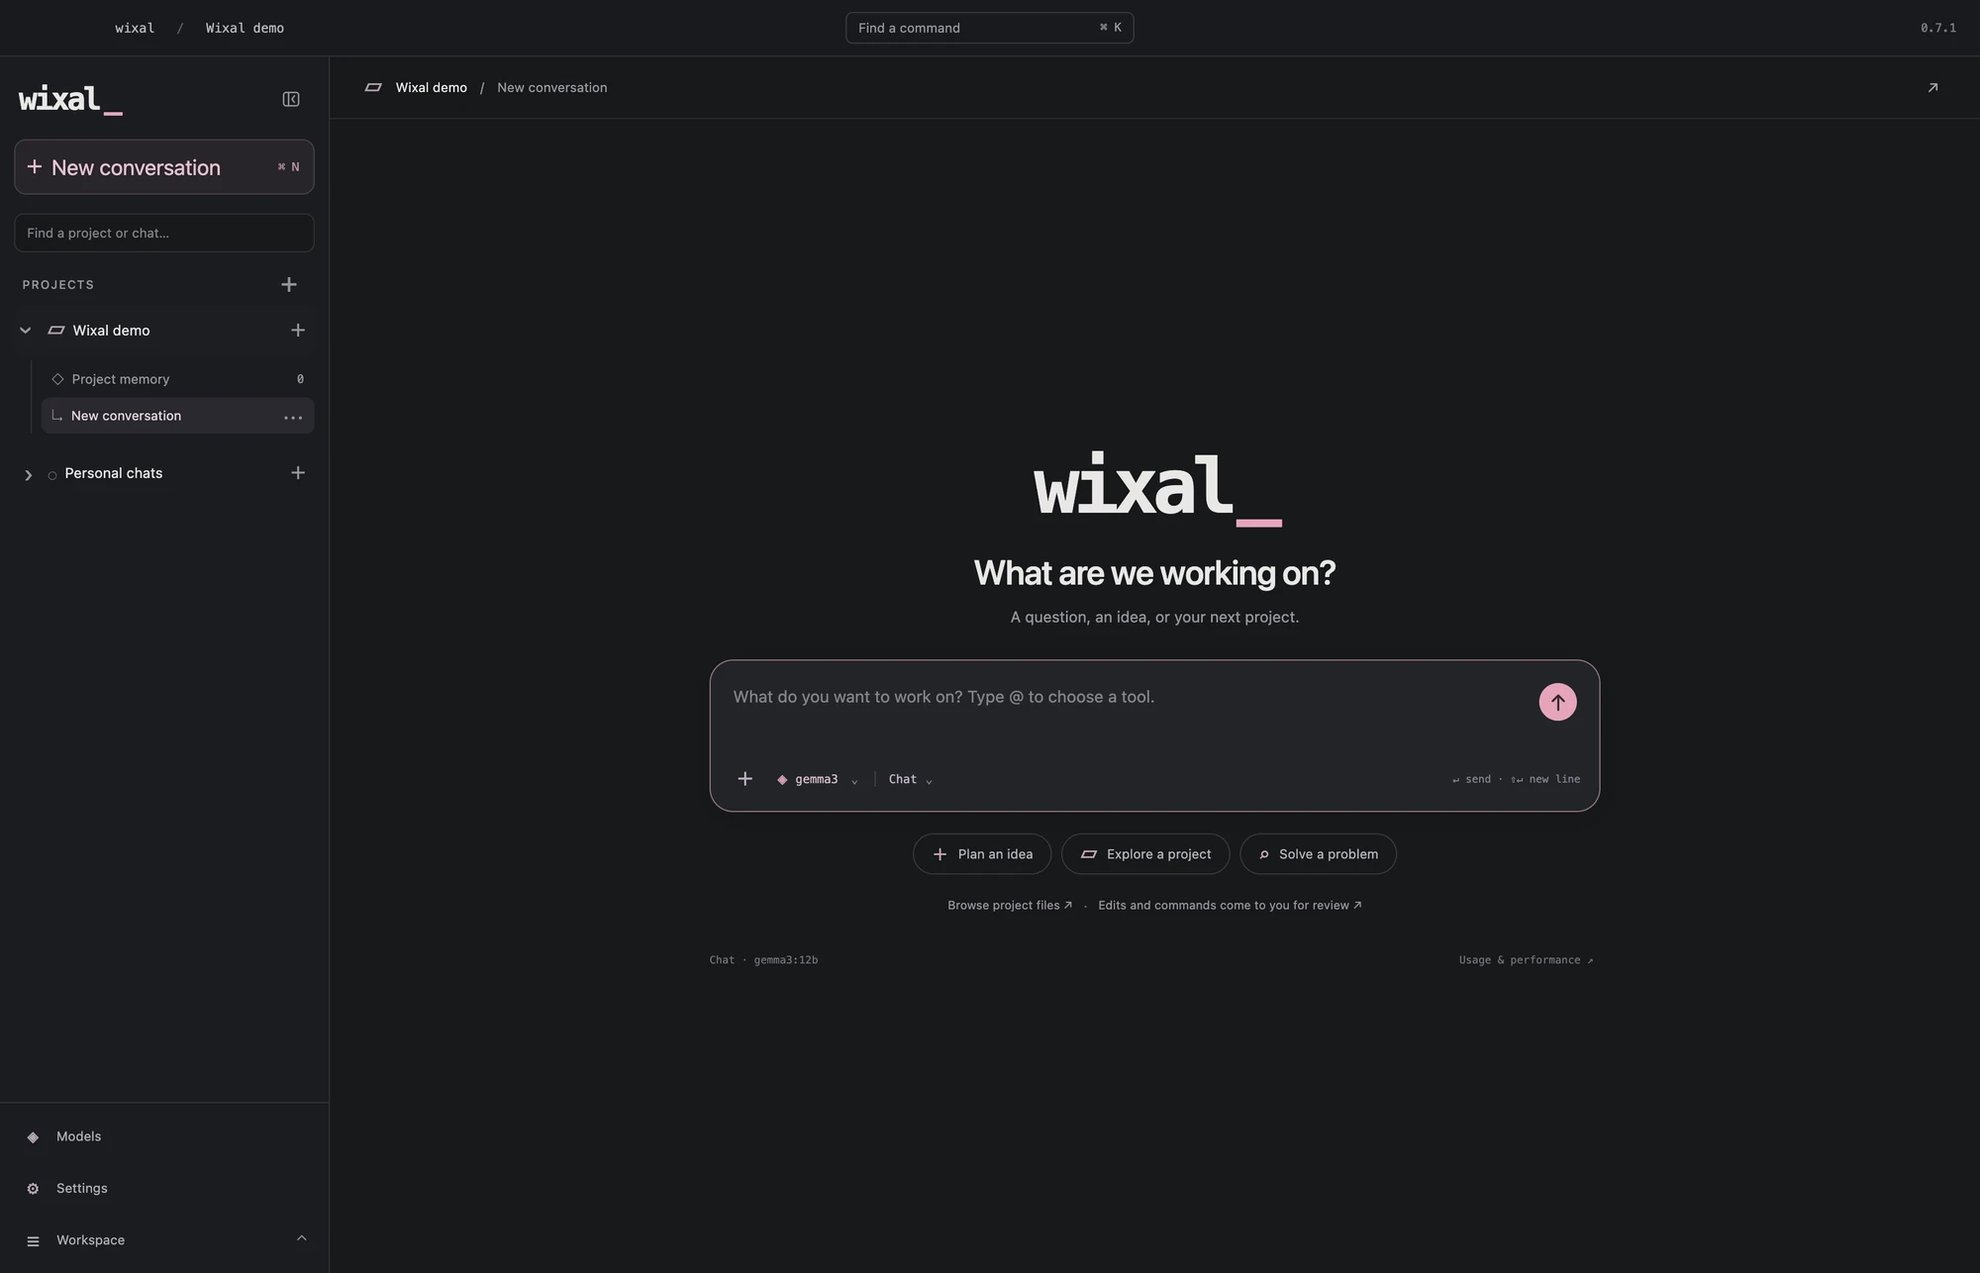
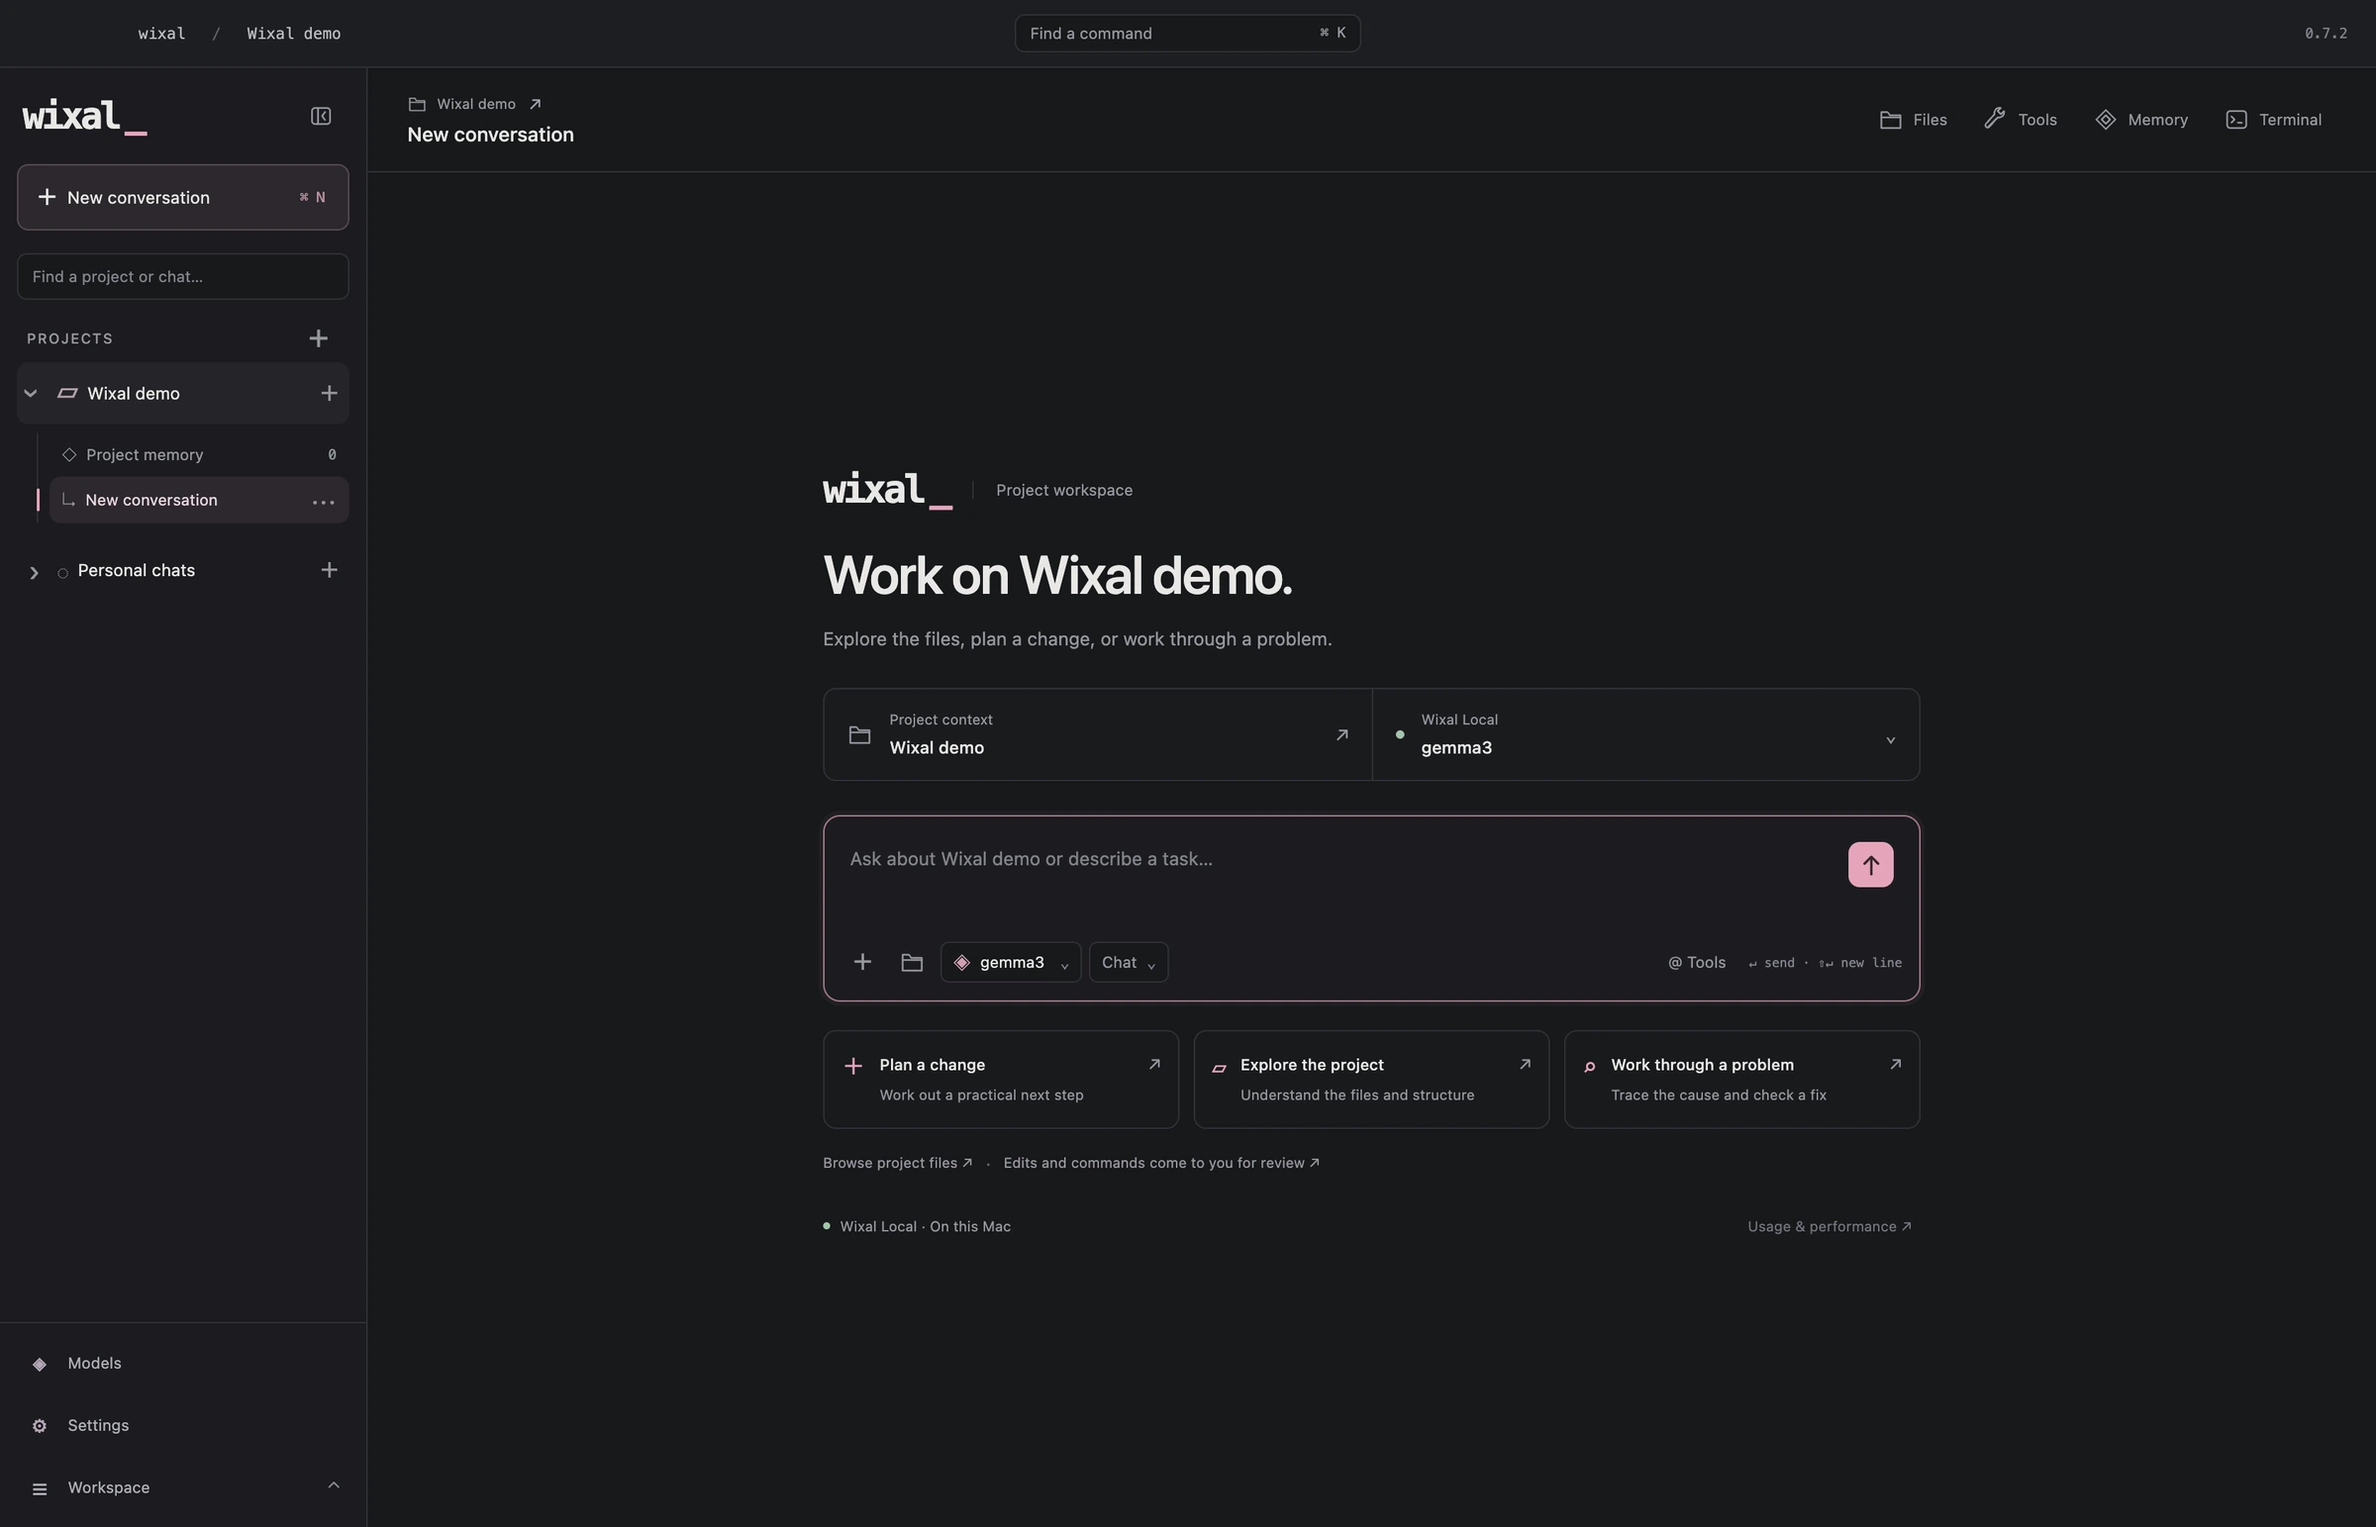
Refresh product screenshots and concise copy for Wixal 0.7.2

diff --git a/website/README.md b/website/README.md
@@ -38,11 +38,11 @@ GitHub Pages must use GitHub Actions as its build source. The published URL is h
 
 ## Content and assets
 
-`scripts/build.mjs` contains the shared templates and page content. `src/styles.css` defines the responsive design system; `src/site.js` handles navigation, screenshot tabs, and appearance. Wixal 0.7.1 workspace, model manager, tool kit and performance captures are saved as WebP. Files, memory, terminal, connections, explicit tool selection, command tools, web tool cards and MCP setup previews are captured from 0.7.1, and the existing folded W mark is used in the header and favicon.
+`scripts/build.mjs` contains the shared templates and page content. `src/styles.css` defines the responsive design system; `src/site.js` handles navigation, screenshot tabs, and appearance. Wixal 0.7.2 workspace, model manager, tool kit and performance captures are saved as WebP. Files, memory, terminal, connections, explicit tool selection, command tools, web tool cards and MCP setup previews are captured from 0.7.2, and the existing folded W mark is used in the header and favicon.
 
 The Cursor homepage and product page informed the neutral palette, quiet navigation, typography, whitespace, product previews, and download buttons. Wixal uses its own content and assets. No Cursor fonts, logo, screenshots, customer endorsements, or product claims are shipped.
 
-Download links target the verified v0.7.1 release. Update the release version and copy in `scripts/build.mjs` when shipping a new release. Provider features follow the current published Wixal docs. The companion illustration is labelled as an illustration, not a screenshot. All site pages and download links work without JavaScript. Mobile navigation, screenshot switching, and appearance controls use JavaScript.
+Download links target the verified v0.7.2 release. Update the release version and copy in `scripts/build.mjs` when shipping a new release. Provider features follow the current published Wixal docs. The companion illustration is labelled as an illustration, not a screenshot. All site pages and download links work without JavaScript. Mobile navigation, screenshot switching, and appearance controls use JavaScript.
 
 Design concepts in `design/` were created with the built-in image generation tool. They are development references and are not part of the published site. Their brief was to retain the Cursor product page's #f7f7f4 / #26251e palette, understated regular grotesk type, open spacing, existing Wixal folded W branding, four source-grounded product areas, and the download/footer continuation. Actual Wixal screenshots intentionally replace generated app mockups. See `design/verification.md` for comparison notes.
 
@@ -60,7 +60,7 @@ The build reads intrinsic WebP dimensions directly and uses them in each image's
 
 Styles, scripts, and screenshots use content-derived asset versions so browsers fetch updated files after a deployment.
 
-The 0.7.1 update uses the actual release app captures in `docs/screenshots`, including reported usage and a completed real benchmark. The local engine, tool defaults, model manager and macOS minimum match this release.
+The 0.7.2 update uses the actual release app captures in `docs/screenshots`, including reported usage and a completed real benchmark. The local engine, tool defaults, model manager and macOS minimum match this release.
 
 The Tools page explains explicit tool selection, reviewed file edits, command sessions, rendered web inspection, search, JSON APIs and external MCP setup. Product memory includes notes, prior-chat search and inspectable summaries. The dark appearance uses neutral #101010 black and #191919 charcoal surfaces, neutral grey text, subtle borders and restrained orange link accents; it also styles the navigation, footer, screenshot frames, gallery, buttons and enlarged viewer. Light appearance retains the original neutral palette.
 
@@ -76,4 +76,4 @@ node website/scripts/capture-features.cjs /absolute/path/to/release-checkout --s
 
 Use a clean checkout of the release with the desktop dependencies installed. This mode captures actual project-memory controls, a saved sample note and the browser-inspection control. It uses a disposable project/state and does not run a model or a web request. The memory capture frames the drawer through its actual saved-note element; no UI or result is fabricated.
 
-The 0.7.1 refresh uses genuine packaged app captures of the Models page and verified download queue. Download links target v0.7.1. The local provider is Wixal Local; Ollama is credited as the underlying engine.
+The 0.7.2 refresh uses genuine packaged app captures of the Models page and verified download queue. Download links target v0.7.2. The local provider is Wixal Local; Ollama is credited as the underlying engine.

diff --git a/website/design/verification.md b/website/design/verification.md
@@ -97,3 +97,9 @@ Local verification:
 - Desktop opening, models/memory balance and mobile web/companion layouts were visually inspected. Visible preview ratios match their source images; maximum measured ratio deviation was below 0.0002.
 - Capability links navigate to the intended feature under the sticky header. The new browser-control preview opens at full size; Escape closes the dialog and returns focus to its trigger.
 - No browser errors or warnings were recorded. Neutral black/charcoal Dark and the existing Light palette remain in use.
+
+## 0.7.2 workspace refresh
+
+Current packaged 0.7.2 screenshots now lead the homepage and Product gallery and Desktop overview. Model library/download/performance previews include an actual Gemma 3 12B benchmark and a completed registry download; feature captures use a disposable project and actual terminal test. The provider remains Wixal Local. Download links target v0.7.2, and new copy stays to a short release sentence plus the practical header/draft workflow.
+
+The in-app browser verified screenshot tabs, enlarged image opening/closing, mobile navigation and dark appearance. Product layouts at 1280, 390 and 320 pixels had no horizontal overflow or broken loaded images, and no browser errors/warnings were recorded. Desktop and mobile screenshots were visually reviewed. Build checks resolve 282 local assets/pages/fragments across seven HTML documents and verify image dimensions. The companion remains explicitly labelled as an illustration.
